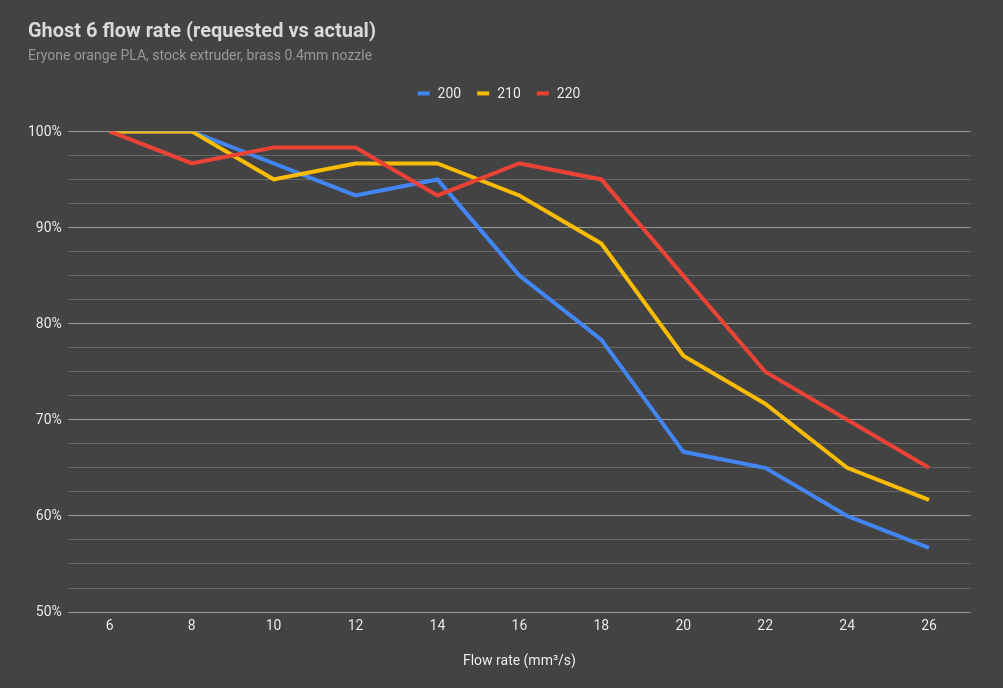
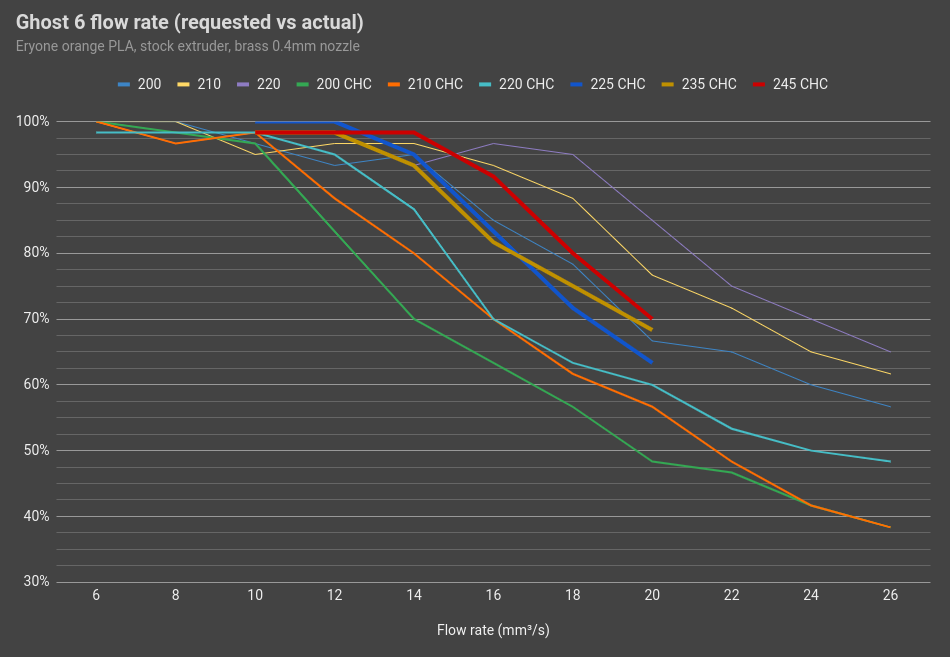
Add CHC flow test data

diff --git a/flow.md b/flow.md
@@ -10,21 +10,37 @@ weighing the extruded PLA and comparing it to the requested flow rate in mm<sup>
 
 ![Grid of flow rate tests on the Ghost 6 build surface](images/flow_test.jpg)
 
+When fitting a CHC I also switched the nozzle from brass to tungsten carbide to print abrasive filament. Carbide nozzle have approx 80% of the thermal conductivity of brass, and slightly require higher printing temps.
+
 Flow rate requested and weight extruded (g) using a brass 0.4mm nozzle.
 
 | Temp | 6 | 8 | 10 | 12 | 14 | 16 | 18 | 20 | 22 | 24 | 26 |
 | :--- | :---: | :---: | :---: | :---: | :---: | :---: | :---: | :---: | :---: | :---: | :---: |
 | 200 | 0.6 | 0.6 | 0.58 | 0.56 | 0.57 | 0.51 | 0.47 | 0.4 | 0.39 | 0.36 | 0.34 |
+| 200 CHC | 0.6 | 0.59 | 0.58 | 0.5 | 0.42 | 0.38 | 0.34 | 0.29 | 0.28 | 0.25 | 0.23 |
 | 210 | 0.6 | 0.6 | 0.57 | 0.58 | 0.58 | 0.56 | 0.53 | 0.46 | 0.43 | 0.39 | 0.37 |
+| 210 CHC | 0.6 | 0.58 | 0.59 | 0.53 | 0.48 | 0.42 | 0.37 | 0.34 | 0.29 | 0.25 | 0.23 |
 | 220 | 0.6 | 0.58 | 0.59 | 0.59 | 0.56 | 0.58 | 0.57 | 0.51 | 0.45 | 0.42 | 0.39 |
+| 220 CHC | 0.59 | 0.59 | 0.59 | 0.57 | 0.52 | 0.42 | 038 | 0.36 | 0.32 | 0.3 | 0.29 |
+| 225 CHC | - | - | 0.6 | 0.6 | 0.57 | 0.5 | 0.43 | 0.38 | - | - | - |
+| 235 CHC | - | - | 0.59 | 0.59 | 0.56 | 0.49 | 0.45 | 0.41 | - | - | - |
+| 245 CHC | - | - | 0.59 | 0.59 | 0.59 | 0.55 | 0.48 | 0.42 | - | - | - |
 
 Taking 0.6g as the maximum and dividing all test results into this, we 
 can see the relative flow rate (under) performance.
 
 | Temp | 6 | 8 | 10 | 12 | 14 | 16 | 18 | 20 | 22 | 24 | 26 |
 | :--- | :---: | :---: | :---: | :---: | :---: | :---: | :---: | :---: | :---: | :---: | :---: |
-| 200 | 100.00 | 100.00 | 96.67 | 93.33 | 95.00 | 85.00 | 78.33 | 66.67 | 65.00 | 60.00 | 56.67 |
-| 210 | 100.00 | 100.00 | 95.00 | 96.67 | 96.67 | 93.33 | 88.33 | 76.67 | 71.67 | 65.00 | 61.67 |
-| 220 | 100.00 | 96.67 | 98.33 | 98.33 | 93.33 | 96.67 | 95.00 | 85.00 | 75.00 | 70.00 | 65.00 |
+| 200 | 100 | 100 | 96.67 | 93.33 | 95.00 | 85.00 | 78.33 | 66.67 | 65.00 | 60.00 | 56.67 |
+| 200 CHC | 100 | 98.33 | 96.67 | 83.33 | 70.00 | 61.67 | 56.67 | 48.33 | 46.67 | 41.67 | 38.33 | 
+| 210 | 100 | 100 | 95.00 | 96.67 | 96.67 | 93.33 | 88.33 | 76.67 | 71.67 | 65.00 | 61.67 |
+| 210 CHC | 100 | 96.67 | 98.33 | 88.33 | 80.00 | 70.00 | 61.67 | 56.67 | 48.33 | 41.67 | 38.33 |
+| 220 | 100 | 96.67 | 98.33 | 98.33 | 93.33 | 96.67 | 95.00 | 85.00 | 75.00 | 70.00 | 65.00 |
+| 220 CHC | 98.33 | 98.33 | 98.33 | 95.00 | 86.67 | 70.00 | 63.33 | 60.00 | 53.33 | 50.00 | 48.33 |
+| 225 CHC | - | - | 100 | 100 | 95.00 | 83.33 | 71.67 | 63.33 | - | - | - |
+| 235 CHC | - | - | 98.33 | 98.33 | 93.33 | 81.67 | 75.00 | 68.33 | - | - | - |
+| 245 CHC | - | - | 98.33 | 98.33 | 98.33 | 91.67 | 80.00 | 70.00 | - | - | - |
 
 ![Line chart of data in the table above, flow rate requested versus actual](images/flow_chart.png)
+
+The chart suggests a nozzle temp of around 240C might help restore flow rates. I'm yet to print at that temperature and assess the quality.
